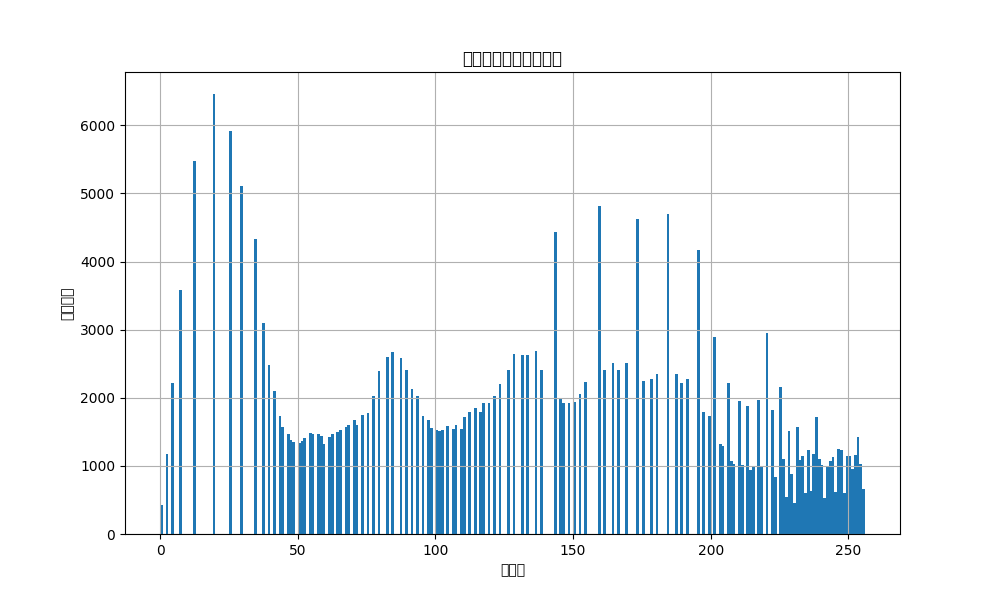
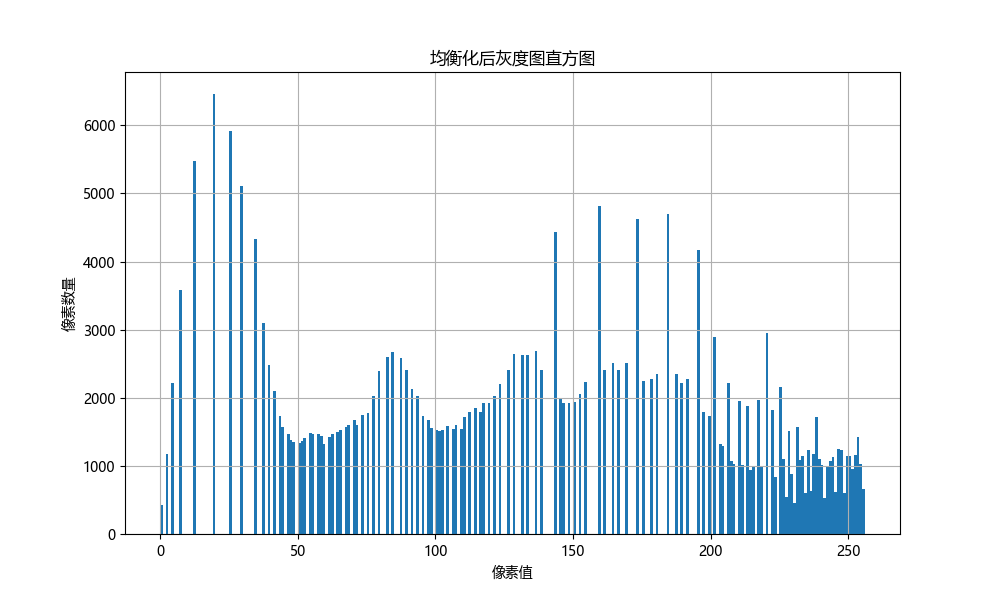
feat(images): 添加鸢尾花数据集PCA降维可视化脚本
- 新增 PCA.py 脚本，实现鸢尾花数据集的加载与PCA降维
- 将数据降至二维并按类别绘制散点图
- 使用红、蓝、绿三色区分 Setosa、Versicolor 和 Virginica
- 添加图例、坐标轴标签及标题以提升可读性

diff --git a/day_3/images/PCA.py b/day_3/images/PCA.py
@@ -1,0 +1,78 @@
+import numpy as np
+import matplotlib.pyplot as plt
+import sklearn.decomposition as dp
+from sklearn.datasets import load_iris
+
+
+def iris_case():
+    # 加载鸢尾花数据集
+    x, y = load_iris(return_X_y=True)
+    x = np.asarray(x, dtype=float)
+    y = np.asarray(y)
+
+    # 创建 PCA 对象，设置主成分数为 2
+    pca = dp.PCA(n_components=2)
+    # 对数据进行 PCA 降维
+    reduced_data = pca.fit_transform(x)
+
+    # ========== 打印分析结果 ==========
+    print("=" * 50)
+    print("PCA 降维结果分析")
+    print("=" * 50)
+
+    # 1. 各主成分的方差解释率
+    print(f"\n📊 各主成分方差解释率 (Explained Variance Ratio):")
+    for i, ratio in enumerate(pca.explained_variance_ratio_):
+        print(f"   主成分 {i+1}: {ratio:.4f} ({ratio*100:.2f}%)")
+    print(f"   累计方差解释率: {pca.explained_variance_ratio_.sum():.4f} ({pca.explained_variance_ratio_.sum()*100:.2f}%)")
+
+    # 2. 各主成分的特征向量（载荷）
+    print(f"\n📐 各主成分的特征向量 (Components / Loadings):")
+    for i, comp in enumerate(pca.components_):
+        print(f"   主成分 {i+1}: {np.round(comp, 4)}")
+
+    # 3. 降维后的数据（前10行）
+    print(f"\n📝 降维后数据 (前10行):")
+    print(f"   {'序号':>4}  {'PC1':>12}  {'PC2':>12}  {'标签':>6}")
+    for i in range(min(10, len(reduced_data))):
+        print(f"   {i+1:>4}  {reduced_data[i][0]:>12.4f}  {reduced_data[i][1]:>12.4f}  {y[i]:>6}")
+
+    # 4. 原始数据形状 vs 降维后形状
+    print(f"\n📐 数据形状:")
+    print(f"   原始数据: {x.shape}")
+    print(f"   降维后:   {reduced_data.shape}")
+
+    # ========== 可视化 ==========
+    red_x, red_y = [], []
+    blue_x, blue_y = [], []
+    green_x, green_y = [], []
+
+    # 根据标签将数据点分为三类
+    for i in range(len(reduced_data)):
+        if y[i] == 0:
+            red_x.append(reduced_data[i][0])
+            red_y.append(reduced_data[i][1])
+        elif y[i] == 1:
+            blue_x.append(reduced_data[i][0])
+            blue_y.append(reduced_data[i][1])
+        else:
+            green_x.append(reduced_data[i][0])
+            green_y.append(reduced_data[i][1])
+
+    # 绘制散点图
+    plt.scatter(red_x, red_y, color='red', label='Setosa')
+    plt.scatter(blue_x, blue_y, color='blue', label='Versicolor')
+    plt.scatter(green_x, green_y, color='green', label='Virginica')
+
+    # 添加图例和标题
+    plt.legend()
+    plt.title('PCA of Iris Dataset')
+    plt.xlabel('Principal Component 1')
+    plt.ylabel('Principal Component 2')
+
+    # 显示图形
+    plt.show()
+
+
+if __name__ == '__main__':
+    iris_case()

diff --git a/day_3/images/color.py b/day_3/images/color.py
@@ -3,6 +3,9 @@ import numpy as np
 import matplotlib.pyplot as plt
 import os
 
+plt.rcParams['font.sans-serif'] = ['Microsoft YaHei', 'SimHei', 'SimSun']
+plt.rcParams['axes.unicode_minus'] = False
+
 # 打印调试信息
 print("=== 程序开始执行 ===")
 print(f"OpenCV 版本: {cv2.__version__}")
@@ -72,7 +75,7 @@ print("直方图计算完成")
 
 # 绘制直方图折线
 plt.figure(figsize=(10, 6))
-plt.plot(img_hist)
+plt.plot(img_hist.ravel())
 plt.title("B 通道直方图")
 plt.xlabel("像素值")
 plt.ylabel("像素数量")
@@ -117,7 +120,7 @@ plt.ylabel("# of Pixels")
 
 for (chan, color) in zip(chans, colors):
     hist = cv2.calcHist([chan], [0], None, [256], [0, 256])
-    plt.plot(hist, color=color)
+    plt.plot(hist.ravel(), color=color)
     plt.xlim([0, 256])
 
 plt.grid(True)